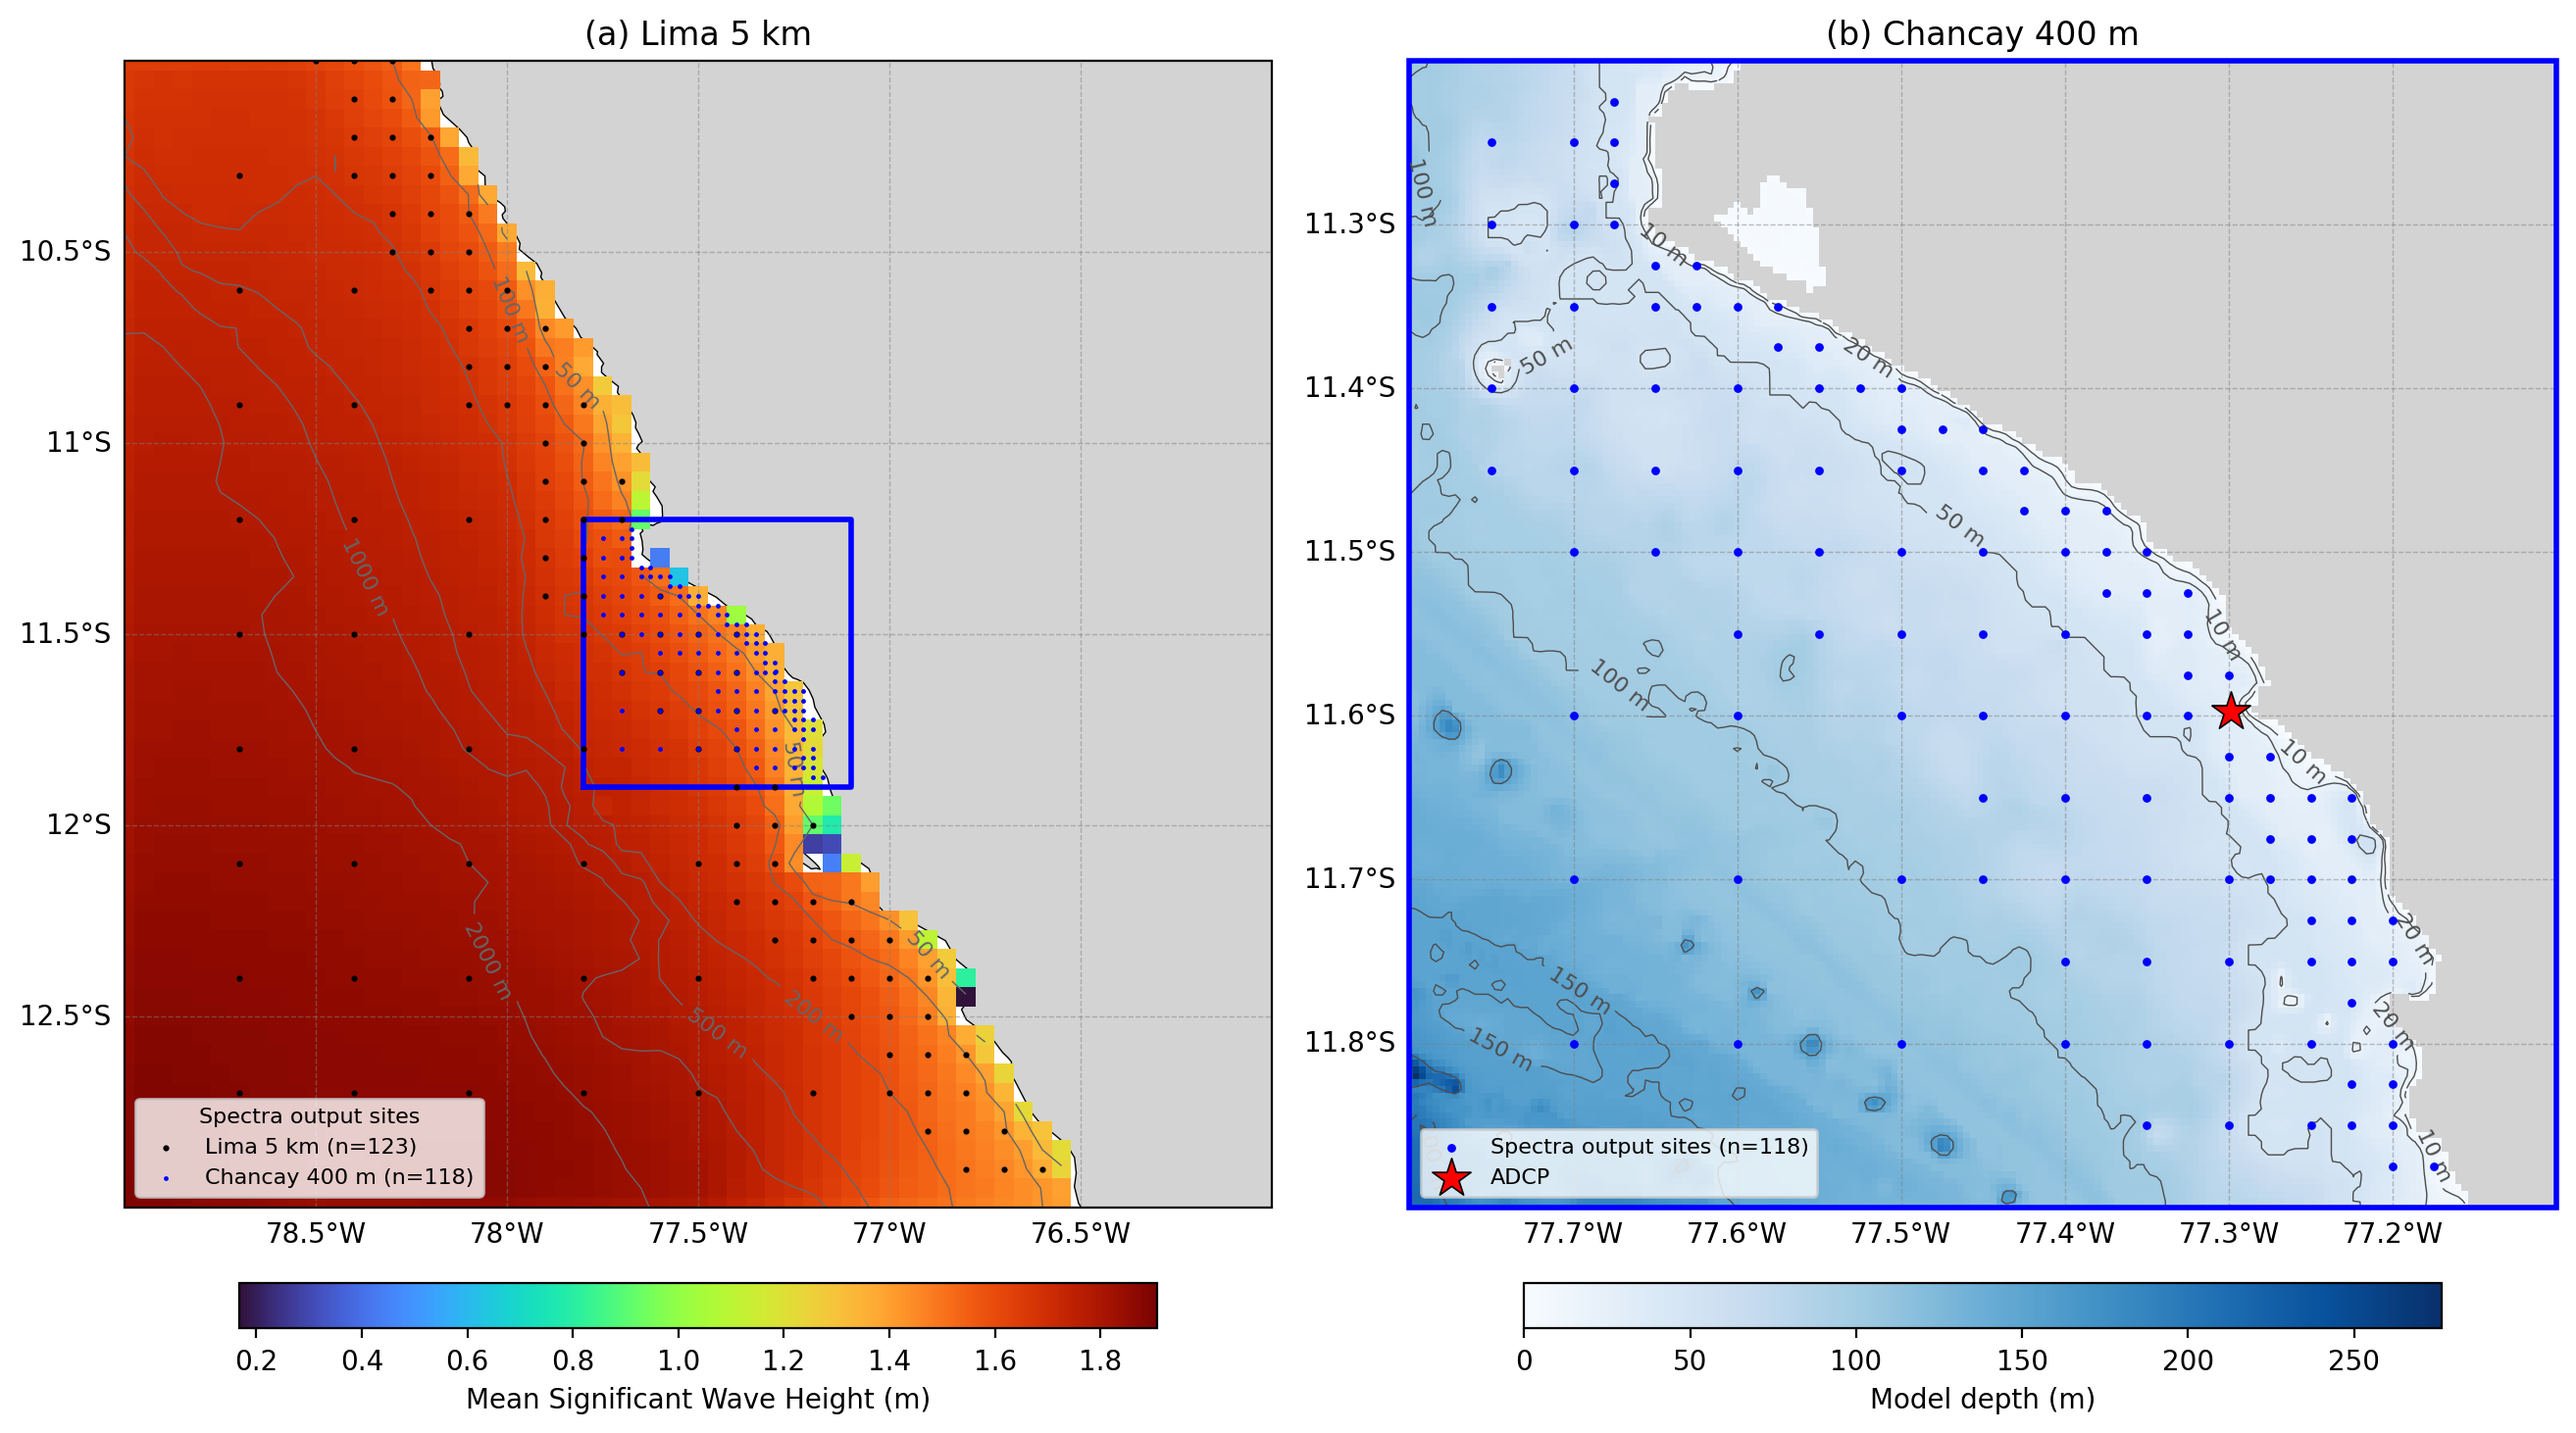
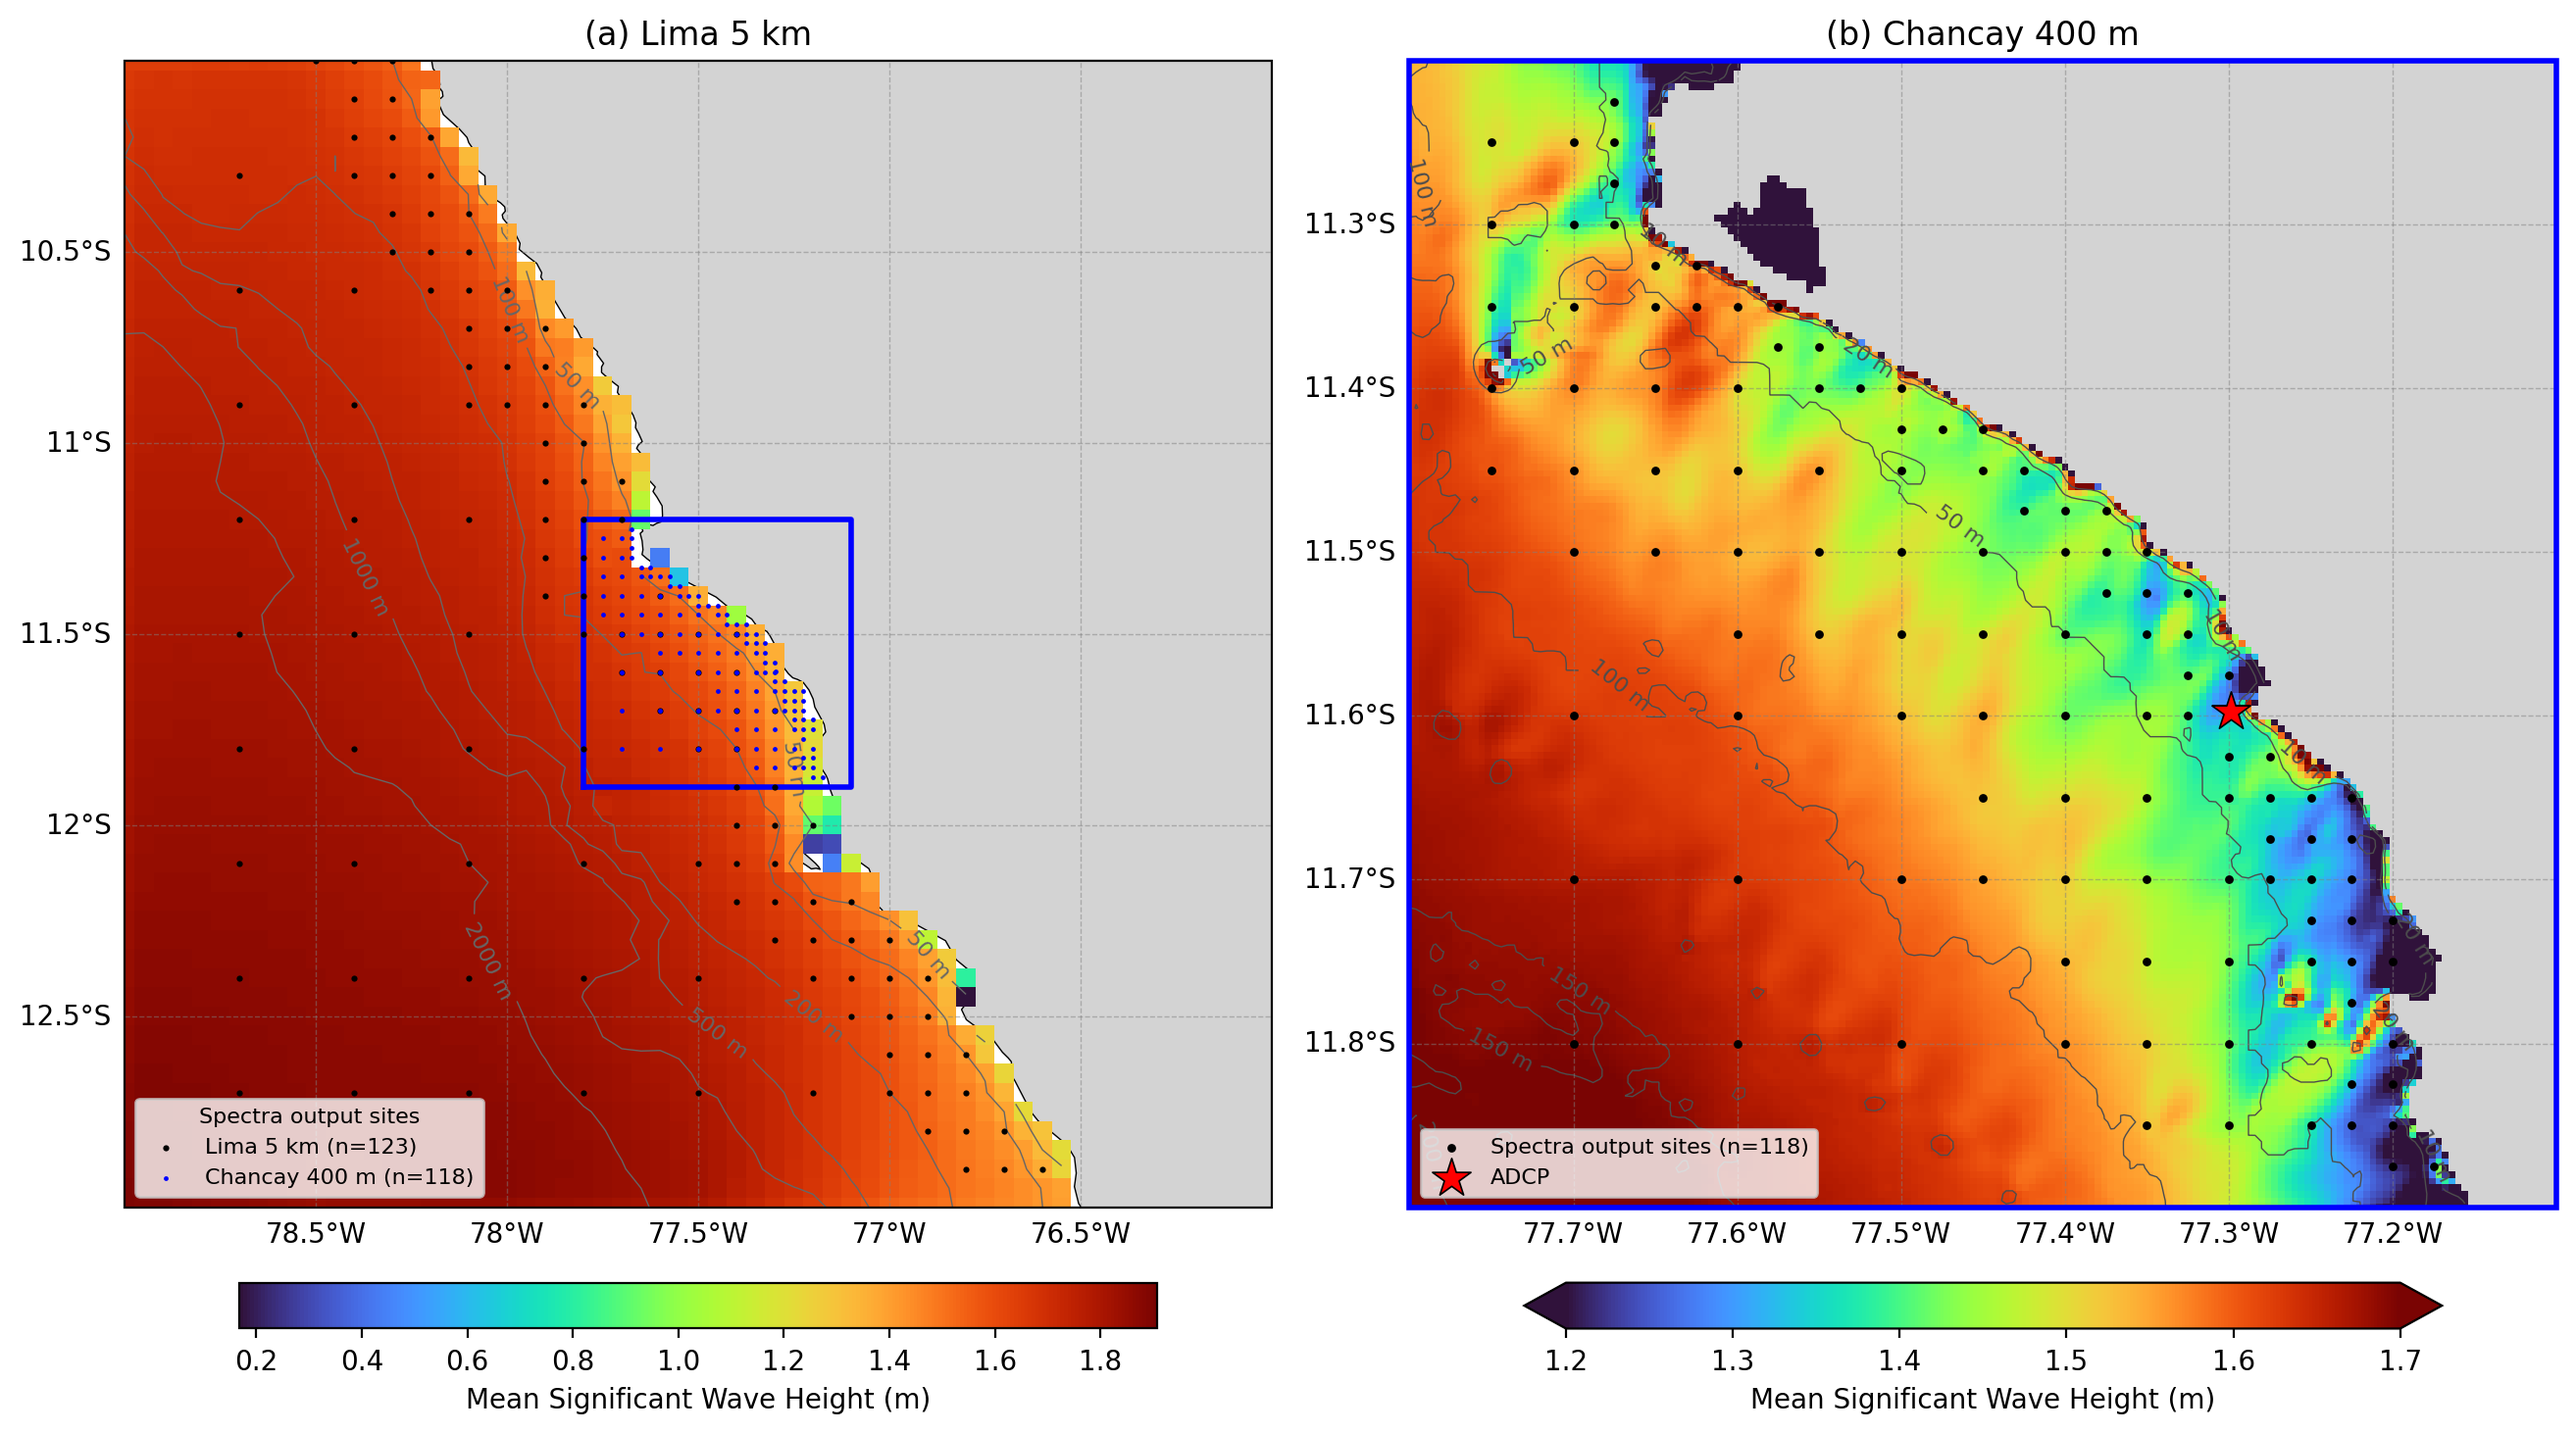
Changes to figure

Changed region(s): [[0.5306, 0.0308, 0.9676, 0.8618], [0.5931, 0.8926, 0.9676, 0.985]]

diff --git a/scripts/generate_peru_forecast_figure1.py b/scripts/generate_peru_forecast_figure1.py
@@ -6,8 +6,10 @@ Left panel: mean significant wave height from the Lima ERA5 hindcast gridstats
 (same grid as the forecast parent domain) with depth contours, the Chancay
 400 m nest box and the spectra output sites of both forecast domains.
 
-Right panel: the Chancay 400 m nest only, showing the model bathymetry, the
-nest spectra output sites and the location of the validation ADCP.
+Right panel: the Chancay 400 m nest only, showing the mean significant wave
+height averaged over the latest GFS forecast cycle (no gridstats exist for
+the nest, so this is illustrative only), the nest spectra output sites and the
+location of the validation ADCP.
 
 Usage:
     python scripts/generate_peru_forecast_figure1.py
@@ -21,8 +23,7 @@ from oceanum.datamesh import Connector
 
 OUTPUT = "figures/peru_forecast_figure1_hs_mean.png"
 GRIDSTATS = "oceanum_wave_lima_era5_gridstats"
-CHANCAY_GRID = "oceanum_wave_gfs_chancay400m_grid_nowcast"
-DEPTH_TIME = "2026-11-17T12:00:00"  # any single time step, depth is static
+CHANCAY_GRID = "oceanum_wave_gfs_chancay400m_grid"
 LIMA_SPEC = "oceanum_wave_gfs_lima5km_spec"
 CHANCAY_SPEC = "oceanum_wave_gfs_chancay400m_spec"
 EXTENT = [-79.0, -76.0, -13.0, -10.0]
@@ -49,11 +50,11 @@ def add_gridlines(ax) -> None:
 def main() -> None:
     conn = Connector()
     stats = conn.query(datasource=GRIDSTATS, variables=["hs_mean", "depth_mean"])
-    nest = conn.query(
-        datasource=CHANCAY_GRID, variables=["depth"],
-        timefilter={"times": [DEPTH_TIME, DEPTH_TIME]},
-    )
+    nest = conn.query(datasource=CHANCAY_GRID, variables=["depth", "hs"])
+    print(f"Chancay cycle: {nest.time.values[0]} to {nest.time.values[-1]}")
     depth = nest.depth.isel(time=0)
+    nest_hs = nest.hs.mean("time")
+    print(f"Chancay cycle-mean Hs: {np.nanpercentile(nest_hs, [0, 1, 5, 25, 50, 75, 95, 100])}")
     lima_lon, lima_lat = site_coords(conn, LIMA_SPEC)
     chan_lon, chan_lat = site_coords(conn, CHANCAY_SPEC)
     x0, x1, y0, y1 = CHANCAY
@@ -96,11 +97,13 @@ def main() -> None:
     add_gridlines(ax1)
     ax1.legend(loc="lower left", fontsize=8, title="Spectra output sites", title_fontsize=8)
 
-    # Right panel: Chancay 400 m nest (land is where the model depth is masked)
+    # Right panel: Chancay 400 m nest (land is where the model output is masked).
+    # Colour limits are set from the nest's own range so nearshore gradients show.
     ax2.set_facecolor("lightgray")
-    depth.plot(
-        ax=ax2, transform=PC, cmap="Blues", vmin=0,
-        cbar_kwargs={"label": "Model depth (m)", **cbar_kwargs},
+    vmin, vmax = np.round(np.nanpercentile(nest_hs, [3, 99.5]), 1)
+    nest_hs.plot(
+        ax=ax2, transform=PC, cmap="turbo", vmin=vmin, vmax=vmax, extend="both",
+        cbar_kwargs={"label": "Mean Significant Wave Height (m)", **cbar_kwargs},
     )
     cs = ax2.contour(
         depth.longitude, depth.latitude, depth.values, levels=CHANCAY_CONTOURS,
@@ -108,7 +111,7 @@ def main() -> None:
     )
     ax2.clabel(cs, inline=True, fontsize=8, fmt="%d m")
     ax2.scatter(
-        chan_lon, chan_lat, s=40, c="blue", marker=".", linewidths=0,
+        chan_lon, chan_lat, s=40, c="black", marker=".", linewidths=0,
         transform=PC, zorder=5, label=f"Spectra output sites (n={chan_lon.size})",
     )
     ax2.scatter(

diff --git a/oceanum_peru_wave_forecast.md b/oceanum_peru_wave_forecast.md
@@ -43,7 +43,7 @@ The dataset provides hourly forecast estimates for key ocean wave parameters (Ta
 
 <img src="./figures/peru_forecast_figure1_hs_mean.png" alt="Figure 1" width="900">
 
-**Figure 1.** Peru wave forecast domains. (a) Lima 5 km parent domain, with the mean significant wave height from the corresponding Peru ERA5 hindcast in the background and depth contours at 50m, 100m, 200m, 500m, 1000m, and 2000m; the blue box indicates the Chancay 400 m nest. The locations of 2D spectra hourly output are shown by the black dots (Lima 5 km, 123 sites) and the blue dots (Chancay 400 m, 118 sites). (b) Chancay 400 m nest, with the model bathymetry in the background and depth contours at 10m, 20m, 50m, 100m, 150m, and 200m. The blue dots show the 118 spectra output sites of the nest and the red star marks the location of the ADCP used for validation.
+**Figure 1.** Peru wave forecast domains. (a) Lima 5 km parent domain, with the mean significant wave height from the corresponding Peru ERA5 hindcast in the background and depth contours at 50m, 100m, 200m, 500m, 1000m, and 2000m; the blue box indicates the Chancay 400 m nest. The locations of 2D spectra hourly output are shown by the black dots (Lima 5 km, 123 sites) and the blue dots (Chancay 400 m, 118 sites). (b) Chancay 400 m nest, with the significant wave height averaged over a single 7-day forecast cycle in the background, shown for illustration on its own colour scale, and depth contours at 10m, 20m, 50m, 100m, 150m, and 200m. The black dots show the 118 spectra output sites of the nest and the red star marks the location of the ADCP used for validation.
 
 ---
 
